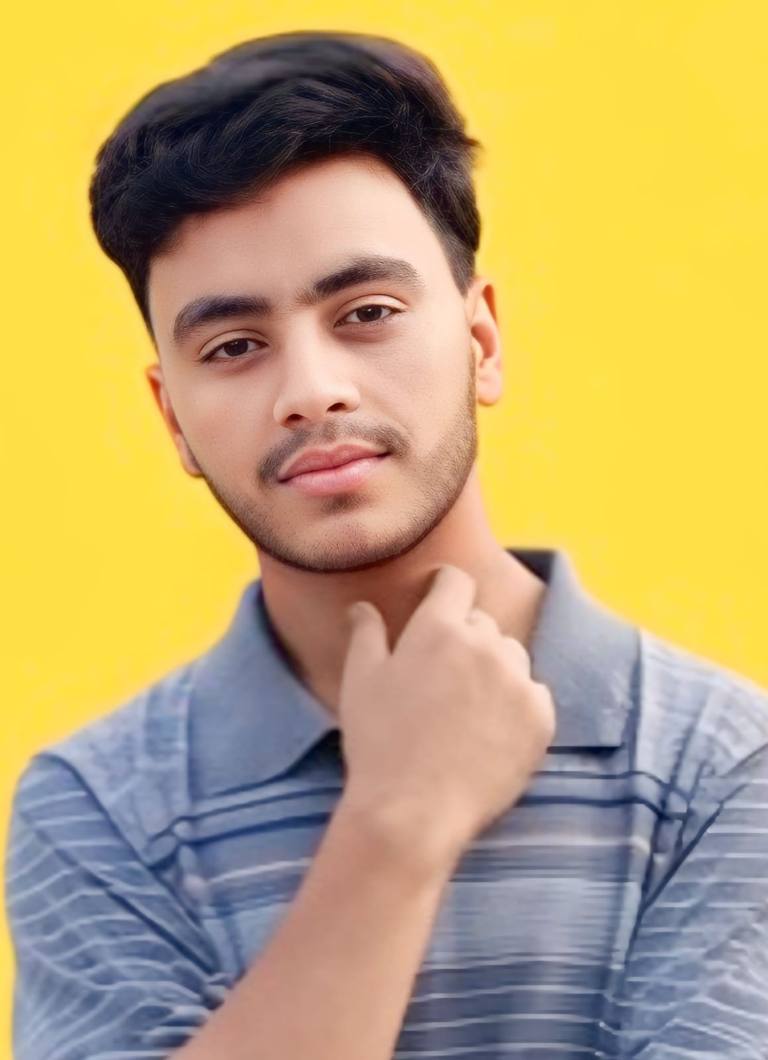
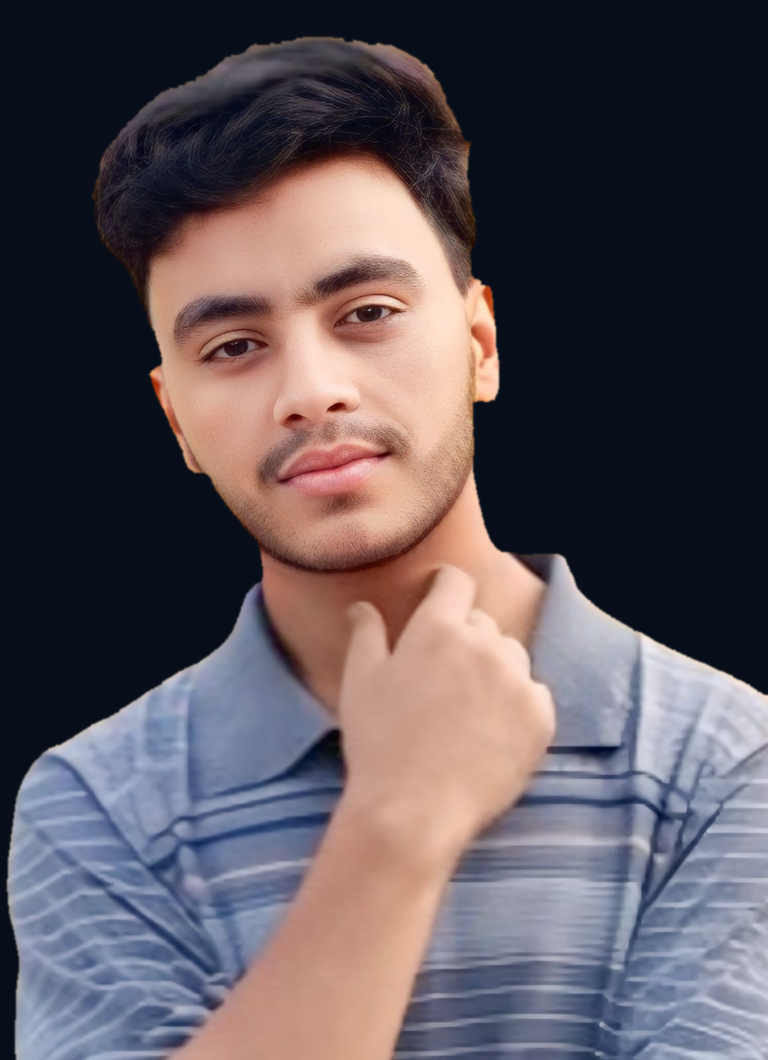
portfolio updated

diff --git a/templates/index.html b/templates/index.html
@@ -17,7 +17,7 @@
           <a class="social-link" href="{{ github_url }}" target="_blank" rel="noopener noreferrer" aria-label="Soban Khan on GitHub">
             <svg viewBox="0 0 24 24" aria-hidden="true"><path d="M12 .9a11.1 11.1 0 0 0-3.51 21.63c.56.1.76-.24.76-.54v-2.08c-3.1.67-3.76-1.32-3.76-1.32-.5-1.29-1.24-1.64-1.24-1.64-1.02-.7.08-.69.08-.69 1.13.08 1.73 1.16 1.73 1.16 1 .1.99 1.83 3.15 1.38.1-.72.39-1.21.7-1.49-2.48-.28-5.09-1.24-5.09-5.52 0-1.22.44-2.22 1.16-3-.12-.29-.5-1.43.11-2.97 0 0 .94-.3 3.05 1.15a10.6 10.6 0 0 1 5.55 0c2.11-1.45 3.04-1.15 3.04-1.15.61 1.54.23 2.68.12 2.97.72.78 1.15 1.78 1.15 3.01 0 4.29-2.61 5.23-5.1 5.5.4.35.75 1.03.75 2.08V22c0 .3.2.65.77.54A11.1 11.1 0 0 0 12 .9Z"/></svg>
           </a>
-          <a class="social-link" href="mailto:{{ email_address }}" aria-label="Email Soban Khan">
+          <a class="social-link" href="https://mail.google.com/mail/?view=cm&amp;fs=1&amp;to={{ email_address|urlencode }}" target="_blank" rel="noopener noreferrer" aria-label="Compose email to Soban Khan in Gmail">
             <svg viewBox="0 0 24 24" aria-hidden="true"><path d="M3.5 5.5h17a1.5 1.5 0 0 1 1.5 1.5v10a1.5 1.5 0 0 1-1.5 1.5h-17A1.5 1.5 0 0 1 2 17V7a1.5 1.5 0 0 1 1.5-1.5Zm.1 2 8.4 6.1 8.4-6.1"/><path d="m3 17 6.2-5m11.8 5-6.2-5"/></svg>
           </a>
         </div>
@@ -103,7 +103,7 @@
       </div>
       <ul class="service-list">
         {% for service in services %}
-          <li class="service-card reveal-on-scroll"><span class="service-icon" aria-hidden="true">↗</span><span>{{ service }}</span></li>
+          <li class="service-card reveal-on-scroll"><a href="#contact"><span class="service-icon" aria-hidden="true">↗</span><span>{{ service }}</span></a></li>
         {% endfor %}
       </ul>
     </div>
@@ -118,9 +118,10 @@
           <h2>Let’s make<br><span class="accent-text">something useful.</span></h2>
         </div>
         <div class="contact-details">
-          <a class="contact-email" href="mailto:{{ email_address }}">{{ email_address }} <span aria-hidden="true">↗</span></a>
+          <a class="contact-email" href="https://mail.google.com/mail/?view=cm&amp;fs=1&amp;to={{ email_address|urlencode }}" target="_blank" rel="noopener noreferrer">{{ email_address }} <span aria-hidden="true">↗</span></a>
+          <a class="contact-github" href="{{ whatsapp_url }}" target="_blank" rel="noopener noreferrer">WhatsApp: {{ whatsapp_number }} <span aria-hidden="true">↗</span></a>
           <a class="contact-github" href="{{ github_url }}" target="_blank" rel="noopener noreferrer">Find me on GitHub <span aria-hidden="true">↗</span></a>
-          <p>No contact form here—email opens your mail app directly.</p>
+          <p>Email opens a Gmail compose window; WhatsApp opens a chat.</p>
         </div>
       </div>
       <div class="contact-decoration" aria-hidden="true">SK<span>.</span></div>

diff --git a/static/css/style.css b/static/css/style.css
@@ -143,6 +143,7 @@ img { display: block; max-width: 100%; }
 .service-list { margin: 0; padding: 0; border-top: 1px solid var(--line); list-style: none; }
 .service-list li { min-height: 66px; display: grid; grid-template-columns: 1fr 24px; align-items: center; border-bottom: 1px solid var(--line); font-size: clamp(16px, 1.8vw, 20px); font-weight: 600; transition: padding .2s ease, color .2s ease; }
 .service-list li:hover { padding-inline: 8px; color: var(--accent); }
+.service-list .service-card > a { width: 100%; min-height: inherit; display: inherit; grid-column: 1 / -1; grid-template-columns: inherit; flex: 1; flex-direction: inherit; align-items: inherit; justify-content: inherit; gap: inherit; color: inherit; text-decoration: none; }
 
 .contact-section { padding-top: 120px; padding-bottom: 125px; }
 .contact-panel { position: relative; overflow: hidden; min-height: 370px; padding: 31px 40px 46px; border: 1px solid rgba(196,240,107,.28); background: linear-gradient(120deg, #1b2018 0%, #171a17 65%, #1c2119 100%); }

diff --git a/app.py b/app.py
@@ -110,6 +110,8 @@ def inject_site_details():
         "current_year": datetime.now().year,
         "github_url": "https://github.com/sobankhan169910-cell",
         "email_address": "sobankbai@gmail.com",
+        "whatsapp_number": "03555282740",
+        "whatsapp_url": "https://wa.me/923555282740",
     }
 
 
